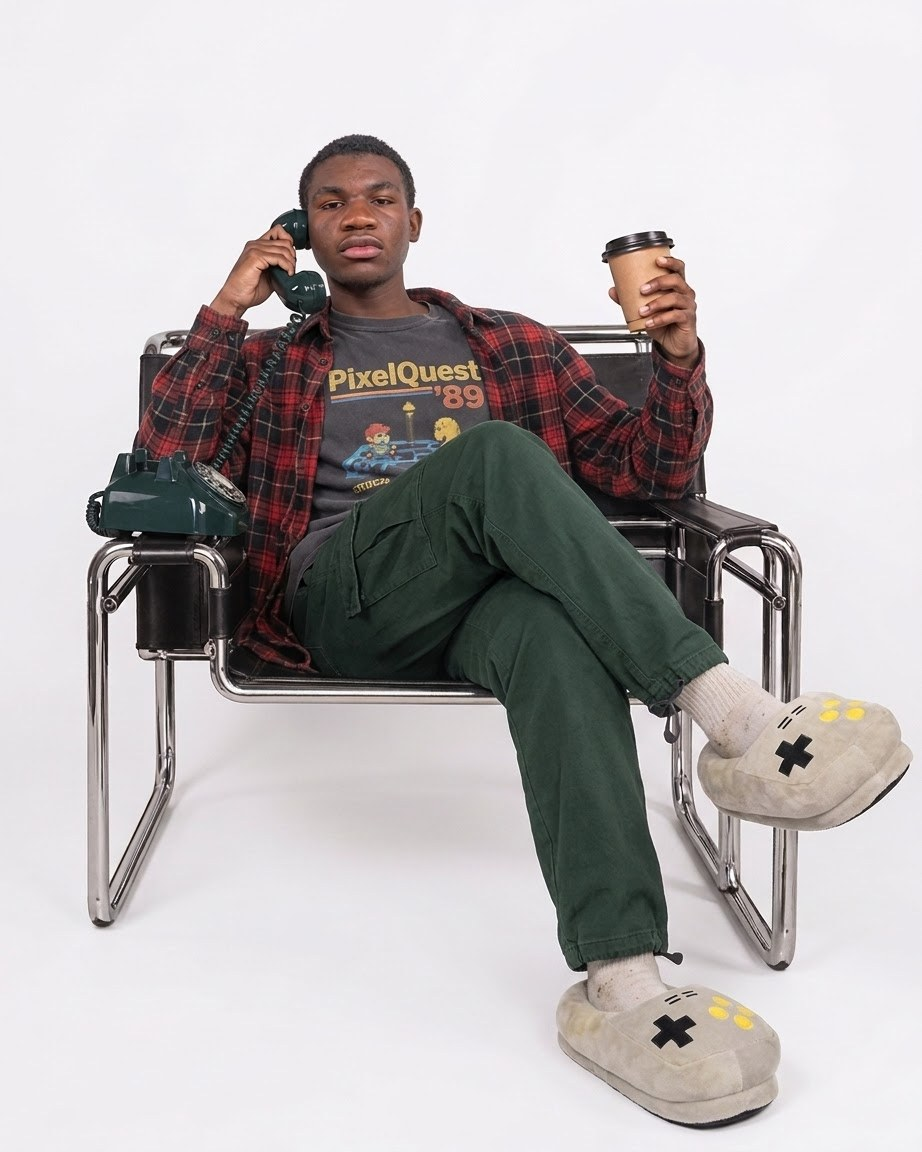
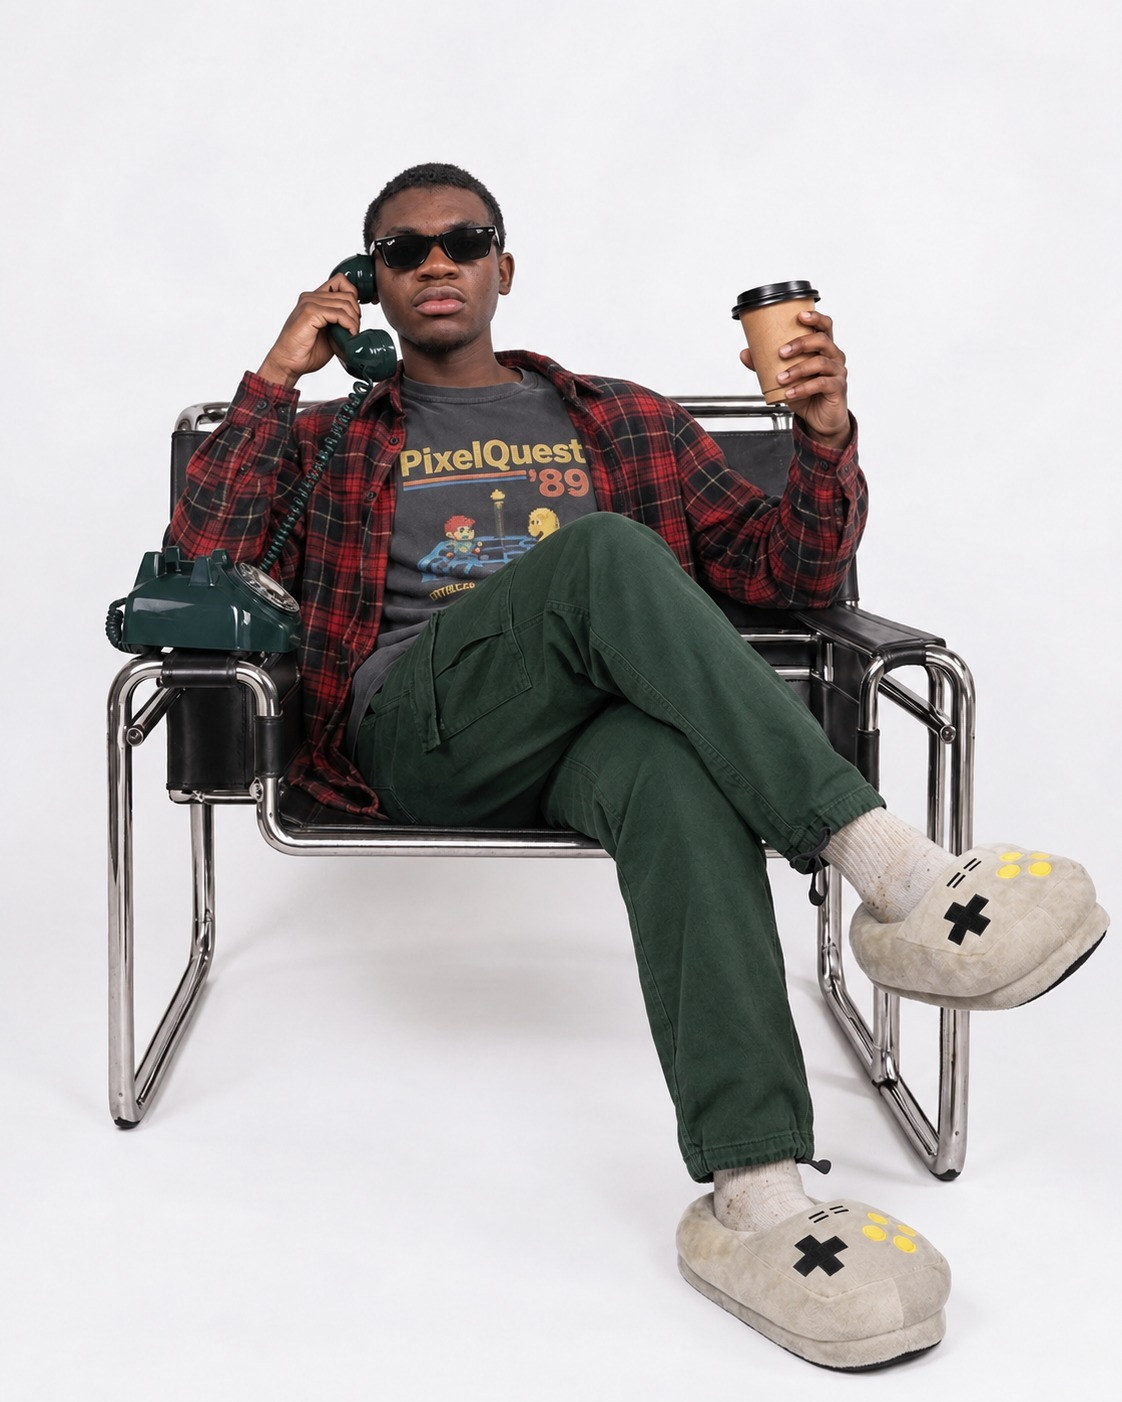
New phone-chair frame, and every photograph monochrome under a screen
The seated frame is replaced with the sunglasses one. Re-measured after
swapping it, because the placement depends on the picture and not on the
filename: subject box x 0.09..0.98 y 0.11..0.98, nothing on any border,
one blob holding 33.5% of the frame, and his width over his height comes
out 0.827 against the 0.83 already in the table. So nothing in the
placement had to move, which is the answer I wanted rather than the one
I assumed.

Every photograph of him is now greyscale with a halftone over it, so the
four read as one set rather than as four photographs that happen to be
on the same sheets. It is a real halftone and not a pixelation: an AM
dot per cell, area tracking tone, on a grid turned 45 degrees, which is
where a print screen goes because at 0 the rows read as stripes.

Mild is the point and it is one number. `depth` mixes the dots 30% over
the grey; past about 0.5 they stop being a texture and become the
picture, which is the pixelated look that was already rejected once. The
cell is measured in SHEET pixels rather than image pixels, so the screen
holds one frequency whether a photograph is drawn as a small cut-out or
across a whole sheet.

It goes on in all three places a photograph reaches a sheet: the
scissors cut, the clean key, and a full-bleed scene. Anything that
treats only one of those gives a set where two of the four match.

Claude-Session: https://claude.ai/code/session_01DnuiPcc2buGHYFgse6Xv7B

diff --git a/assets/js/slides.js b/assets/js/slides.js
@@ -291,9 +291,10 @@ export const BLOCKS = {
    */
   portrait: {
     takes: 'portrait',
-    what: 'One of Ashley\'s own photographs, cut out and screened to a single '
-        + 'ink with a hard outline. For an opening or closing slide. It is a '
-        + 'shape on the sheet, not a photograph in a box.',
+    what: 'One of Ashley\'s own photographs with its background taken off, '
+        + 'monochrome and halftoned like every other photograph of him. For an '
+        + 'opening or closing slide. It is a shape on the sheet, not a '
+        + 'photograph in a box.',
     /* The height comes from the placement table, not from the slide. A
        cut-out whose size is a per-slide decision is a cut-out that
        changes size between slides of one carousel. */
@@ -718,7 +719,7 @@ export const TEMPLATES = {
   portrait: {
     blocks: ['title', 'say', 'portrait', 'action'],
     what: 'An opening or closing slide carrying Ashley himself, cut out and '
-        + 'screened to one ink. Use it once in a set at most: it is the slide '
+        + 'monochrome and screened. Use it once in a set at most: it is the slide '
         + 'that says a person is behind this, and twice makes it about him.',
   },
   close: {
@@ -1023,7 +1024,7 @@ function cutout(ctx, img, g, opts = {}) {
     : flush('top') ? -by0
       : (opts.cy != null ? px.h(opts.cy) - (by0 + by1) / 2 : H - by1 - 1 - pad);
 
-  if (opts.style === 'clean') return drawClean(ctx, off, on, W_, H_, x0, y0);
+  if (opts.style === 'clean') return drawClean(ctx, off, on, W_, H_, x0, y0, opts.screen);
 
   const contour = trace(on, W_, H_);
   /* `rough` stays coarse: that is the scissors. `close` is where the
@@ -1078,7 +1079,8 @@ function cutout(ctx, img, g, opts = {}) {
   // and the photograph, laid over it
   shape(close, 0);
   ctx.clip();
-  ctx.drawImage(pixelate(img, W_, H_, opts.pixels), x0, y0, W_, H_);
+  ctx.drawImage(screened(pixelate(img, W_, H_, opts.pixels), W_, H_, opts.screen),
+                x0, y0, W_, H_);
   ctx.restore();
 }
 
@@ -1092,10 +1094,11 @@ function cutout(ctx, img, g, opts = {}) {
  * pixel first because a colour-distance key keeps a rim of the ground it
  * cut away, and on a white sweep that rim is a white halo.
  */
-function drawClean(ctx, off, on, W_, H_, x0, y0) {
+function drawClean(ctx, off, on, W_, H_, x0, y0, screen) {
   const o = off.getContext('2d', { willReadFrequently: true });
   const im = o.getImageData(0, 0, W_, H_);
   const d = im.data;
+  screenPixels(d, W_, H_, screen);
   for (let y = 0; y < H_; y++) {
     for (let x = 0; x < W_; x++) {
       const i = y * W_ + x;
@@ -1262,6 +1265,52 @@ const centroid = (poly) => [
 const median = (a) => [...a].sort((p, q) => p - q)[Math.floor(a.length / 2)];
 
 /**
+ * Monochrome, with a dot screen over it. Every photograph of Ashley gets
+ * this, so the four of them read as one set rather than as four
+ * photographs that happen to be on the same sheets.
+ *
+ * The screen is a real halftone, not a pixelation: an AM dot per cell,
+ * bigger where the picture is darker, on a grid turned 45 degrees, which
+ * is where a print screen goes because at 0 the rows read as stripes.
+ *
+ * MILD is the whole point and it is one number. `depth` is how far the
+ * dots are mixed over the grey; past about 0.5 the face stops being a
+ * face, which is the pixelated look that was already rejected once.
+ * `cell` is in sheet pixels, not image pixels, so the screen has the
+ * same frequency however big the photograph is drawn.
+ */
+function screenPixels(d, W_, H_, opts = {}) {
+  const cell = opts.cell ?? 5;
+  const depth = opts.depth ?? 0.30;
+  const R45 = Math.SQRT1_2;
+  const wrap = (n) => n - Math.floor(n / cell) * cell - cell / 2;
+  for (let y = 0; y < H_; y++) {
+    for (let x = 0; x < W_; x++) {
+      const i = (y * W_ + x) * 4;
+      const lum = (0.2126 * d[i] + 0.7152 * d[i + 1] + 0.0722 * d[i + 2]) / 255;
+      const fu = wrap(x * R45 + y * R45);
+      const fv = wrap(y * R45 - x * R45);
+      // area, not radius, tracks tone: sqrt keeps the midtones honest
+      const r = cell * 0.62 * Math.sqrt(1 - lum);
+      // soft edge over one pixel, or the dots alias into moire
+      const dot = Math.min(1, Math.max(0, r - Math.hypot(fu, fv) + 0.5));
+      const v = Math.min(1, Math.max(0, lum * (1 - depth) + (1 - dot) * depth));
+      d[i] = d[i + 1] = d[i + 2] = Math.round(v * 255);
+    }
+  }
+}
+
+function screened(src, W_, H_, opts) {
+  const c = new OffscreenCanvas(W_, H_);
+  const x = c.getContext('2d', { willReadFrequently: true });
+  x.drawImage(src, 0, 0, W_, H_);
+  const im = x.getImageData(0, 0, W_, H_);
+  screenPixels(im.data, W_, H_, opts);
+  x.putImageData(im, 0, 0);
+  return c;
+}
+
+/**
  * Paper grain: single pixels, low strength. Seeded from the slide, so a
  * redrawn slide still matches the ones around it.
  */
@@ -1310,9 +1359,10 @@ function hash(str) {
    does not need the wash, so the strength is the slide's to set. */
 function cover(ctx, img, g, veil = 0.82) {
   const scale = Math.max(W / img.width, H / img.height);
-  const w = img.width * scale;
-  const h = img.height * scale;
-  ctx.drawImage(img, (W - w) / 2, (H - h) / 2, w, h);
+  const w = Math.round(img.width * scale);
+  const h = Math.round(img.height * scale);
+  // screened at the size it is drawn, so the dots stay one size a sheet
+  ctx.drawImage(screened(img, w, h), (W - w) / 2, (H - h) / 2);
   if (veil <= 0) return;
   ctx.save();
   ctx.globalAlpha = veil;

diff --git a/assets/stock/own/SOURCES.md b/assets/stock/own/SOURCES.md
@@ -20,12 +20,28 @@ glance. Luminance says which way the type has to run.
 | `sky-arms.jpg` | the whole top third, and the right column all the way down | top, or hard right | light, over sky at lum 86-105 |
 | `blue-flat.jpg` | the entire left column | left half | light, over flat blue at lum 86 |
 | `black-wall.jpg` | the whole left half | left half | light, over near-black at lum 15 |
-| `phone-chair.jpg` | top left and top right corners, and the bottom left | top corners | dark, over white at lum 228 |
+| `phone-chair.jpg` | the top eighth, the left column, the right column above the halfway | the top band, or a column beside him | dark, over white at lum 240 |
 
-`phone-chair` is the only one with a dark-on-light half, and the only
-one whose quiet regions are corners rather than a column. It is a
-portrait on a white sweep, so it wants type in the corners around the
-figure rather than a block beside it.
+`phone-chair` is the only one with a dark-on-light half. Re-measured
+after the frame was replaced in September 2026: same set-up, sunglasses
+on, and the quiet map came back the same to within a cell. Its top band
+runs out at y 0.13, which is why it carries a cut-out rather than type
+over it.
+
+## They are all monochrome, and screened
+
+Nothing here is drawn in colour. Every photograph of Ashley goes to
+greyscale with a halftone over it, so the four read as one set rather
+than as four photographs that happen to be on the same sheets. The
+screen is an AM dot per cell on a grid turned 45 degrees, five sheet
+pixels to the cell, mixed 30% over the grey.
+
+Mild is the point and it is one number, `depth` in `screenPixels`. Past
+about 0.5 the dots stop being a texture and start being the picture,
+which is the pixelated look that was already rejected once. The cell is
+in SHEET pixels rather than image pixels, so the screen is the same
+frequency whether a photograph is drawn as a small cut-out or across a
+whole sheet.
 
 ## A person is in all four
 
